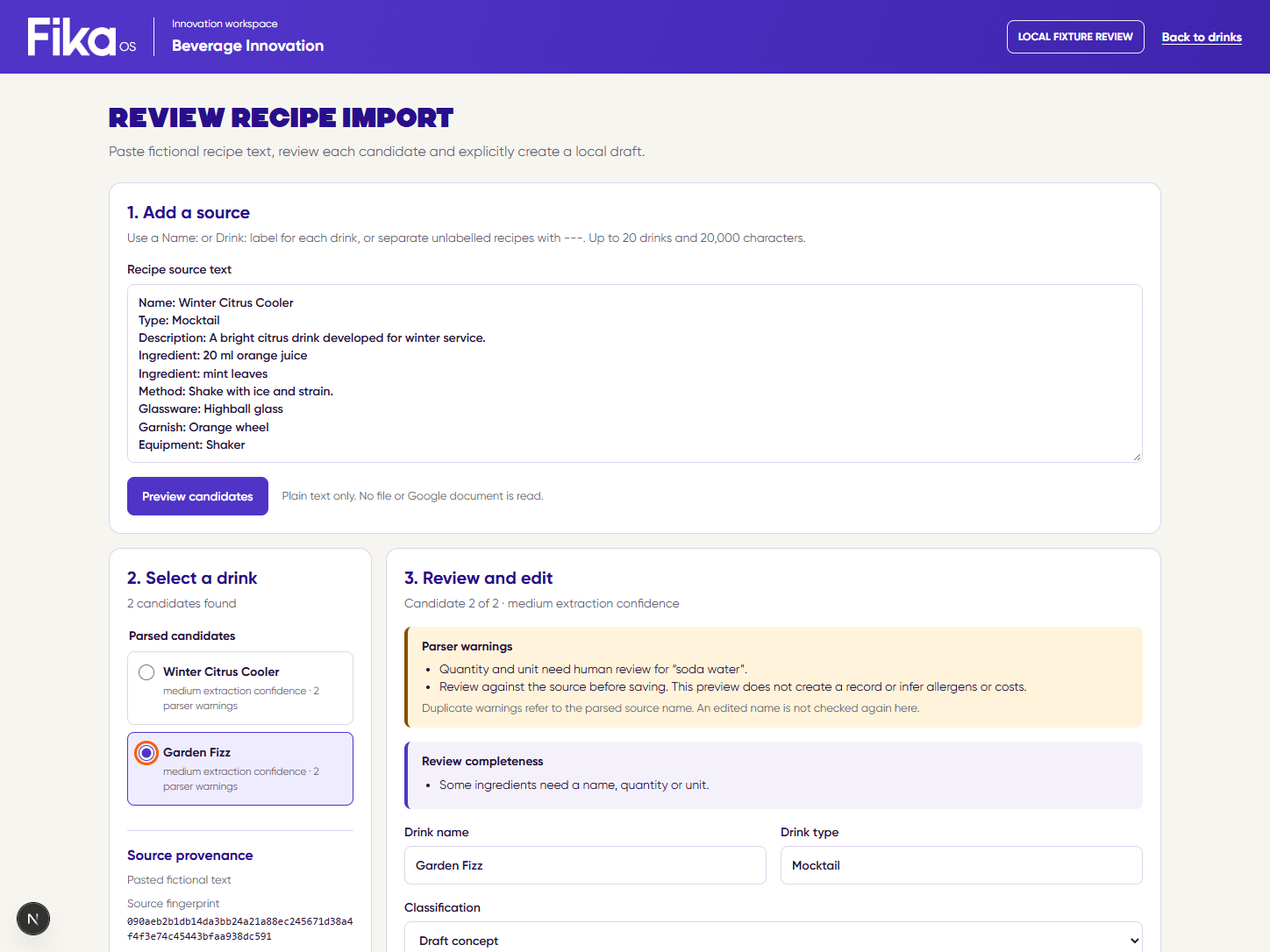
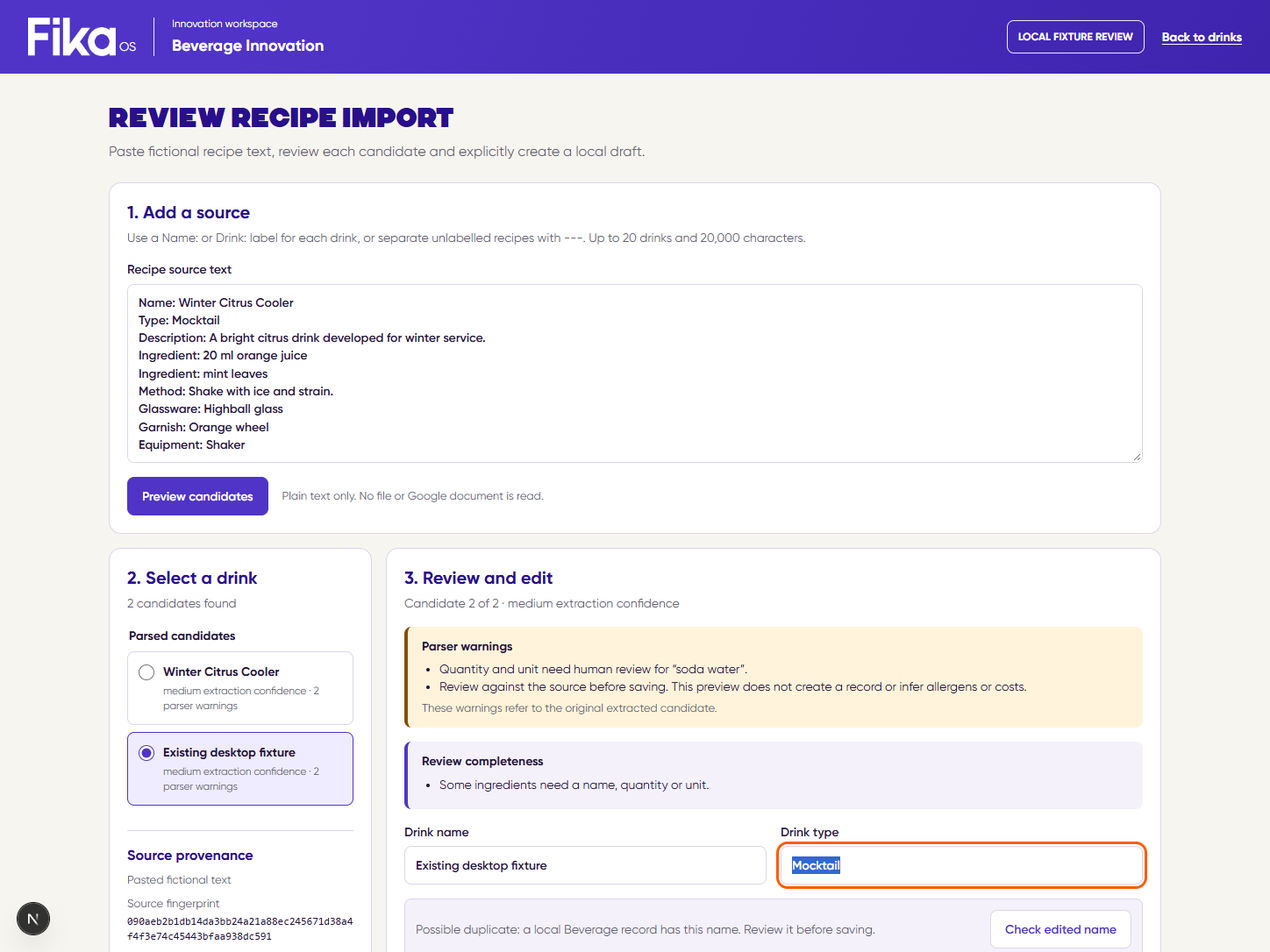
check reviewed beverage names locally

diff --git a/apps/beverage-innovation/app/imports/ImportReview.tsx b/apps/beverage-innovation/app/imports/ImportReview.tsx
@@ -2,7 +2,7 @@
 
 import { useRef, useState } from "react";
 import type { LocalImportPreview } from "../../lib/contracts";
-import { initialReview, prepareImport, reviewCompleteness, type PendingImport, type ReviewForm, type ReviewSession } from "./review-model";
+import { initialReview, normalizeReviewedName, prepareImport, reviewCompleteness, type PendingImport, type ReviewForm, type ReviewSession } from "./review-model";
 
 const example = "Name: Winter Citrus Cooler\nType: Mocktail\nDescription: A bright citrus drink developed for winter service.\nIngredient: 20 ml orange juice\nIngredient: mint leaves\nMethod: Shake with ice and strain.\nGlassware: Highball glass\nGarnish: Orange wheel\nEquipment: Shaker\n\nName: Garden Fizz\nType: Mocktail\nIngredient: 30 ml apple juice\nIngredient: soda water\nMethod: Stir and serve chilled.\nEquipment: Spoon";
 const messageOf = (body: unknown) => {
@@ -18,11 +18,19 @@ export default function ImportReview() {
   const [pending, setPending] = useState<PendingImport>();
   const [busy, setBusy] = useState(false);
   const [message, setMessage] = useState("");
+  const [nameChecks, setNameChecks] = useState<Record<number, { normalizedName: string; status: "checking" | "checked" | "error"; duplicate?: boolean }>>({});
   const busyRef = useRef(false);
+  const checkCounter = useRef(0);
+  const checkSequence = useRef<Record<number, number>>({});
+  const inFlightChecks = useRef<Record<number, { normalizedName: string; sequence: number }>>({});
   const locked = busy || Boolean(pending);
   const candidate = session?.preview.candidates[selected];
   const form = session?.forms[selected];
   const saved = Boolean(candidate && session?.saved.includes(candidate.index));
+  const normalizedName = form ? normalizeReviewedName(form.name) : "";
+  const nameChanged = Boolean(candidate && normalizedName !== normalizeReviewedName(candidate.recipe.name));
+  const nameCheck = candidate ? nameChecks[candidate.index] : undefined;
+  const nameCheckReady = !nameChanged || Boolean(nameCheck?.status === "checked" && nameCheck.normalizedName === normalizedName);
 
   function updateForm(patch: Partial<ReviewForm>) {
     if (locked || saved) return;
@@ -30,9 +38,38 @@ export default function ImportReview() {
     setConfirmed(false);
   }
 
+  function updateName(name: string) {
+    if (!candidate || locked || saved) return;
+    const index = candidate.index;
+    checkSequence.current[index] = ++checkCounter.current;
+    delete inFlightChecks.current[index];
+    setNameChecks(current => { const next = { ...current }; delete next[index]; return next; });
+    updateForm({ name });
+  }
+
+  async function checkEditedName() {
+    if (!candidate || !form || locked || saved || !nameChanged || !normalizedName) return;
+    const index = candidate.index;
+    if (inFlightChecks.current[index]?.normalizedName === normalizedName) return;
+    const sequence = ++checkCounter.current;
+    checkSequence.current[index] = sequence;
+    inFlightChecks.current[index] = { normalizedName, sequence };
+    setNameChecks(current => ({ ...current, [index]: { normalizedName, status: "checking" } }));
+    try {
+      const response = await fetch("/api/imports/name-check", { method: "POST", headers: { "content-type": "application/json" }, body: JSON.stringify({ name: form.name }) });
+      const body = await response.json();
+      if (!response.ok || body.normalizedName !== normalizedName || typeof body.duplicate !== "boolean") throw new Error("Name check unavailable");
+      if (checkSequence.current[index] === sequence) setNameChecks(current => ({ ...current, [index]: { normalizedName, status: "checked", duplicate: body.duplicate } }));
+    } catch {
+      if (checkSequence.current[index] === sequence) setNameChecks(current => ({ ...current, [index]: { normalizedName, status: "error" } }));
+    } finally {
+      if (inFlightChecks.current[index]?.sequence === sequence) delete inFlightChecks.current[index];
+    }
+  }
+
   async function previewSource() {
     if (busyRef.current || pending) return;
-    busyRef.current = true; setBusy(true); setMessage(""); setSession(undefined); setConfirmed(false);
+    busyRef.current = true; setBusy(true); setMessage(""); setSession(undefined); setNameChecks({}); checkSequence.current = {}; inFlightChecks.current = {}; setConfirmed(false);
     try {
       const response = await fetch("/api/imports/preview", { method: "POST", headers: { "content-type": "application/json" }, body: JSON.stringify({ text }) });
       const body = await response.json();
@@ -66,7 +103,8 @@ export default function ImportReview() {
   function createDraft() {
     if (!session || busyRef.current) return;
     if (pending) { void sendImport(pending); return; }
-    const result = prepareImport(session, selected, confirmed, "beverage-ui:" + crypto.randomUUID());
+    const verifiedName = nameCheck?.status === "checked" && typeof nameCheck.duplicate === "boolean" ? { normalizedName: nameCheck.normalizedName, duplicate: nameCheck.duplicate } : undefined;
+    const result = prepareImport(session, selected, confirmed, "beverage-ui:" + crypto.randomUUID(), verifiedName);
     if (!result.pending) { setMessage(result.error || "Review the selected candidate."); return; }
     void sendImport(result.pending);
   }
@@ -76,7 +114,7 @@ export default function ImportReview() {
     <div className="ir-workspace"><div className="ir-heading"><div><h1>Review recipe import</h1><p>Paste fictional recipe text, review each candidate and explicitly create a local draft.</p></div></div>
       {message && <div className="ir-message" role="status">{message}</div>}
       <section className="ir-card ir-source" aria-labelledby="source-title"><div><h2 id="source-title">1. Add a source</h2><p>Use a Name: or Drink: label for each drink, or separate unlabelled recipes with ---. Up to 20 drinks and 20,000 characters.</p></div>
-        <label>Recipe source text<textarea rows={9} maxLength={20000} value={text} disabled={locked} onChange={event => { setText(event.target.value); setSession(undefined); setConfirmed(false); setMessage(""); }} /></label>
+        <label>Recipe source text<textarea rows={9} maxLength={20000} value={text} disabled={locked} onChange={event => { setText(event.target.value); setSession(undefined); setNameChecks({}); checkSequence.current = {}; inFlightChecks.current = {}; setConfirmed(false); setMessage(""); }} /></label>
         <div className="ir-actions"><button className="ir-primary" disabled={locked || !text.trim()} onClick={() => void previewSource()}>{busy && !pending ? "Checking source…" : "Preview candidates"}</button><span>Plain text only. No file or Google document is read.</span></div>
       </section>
       {session && candidate && form && <div className="ir-review-layout">
@@ -84,10 +122,11 @@ export default function ImportReview() {
           <div className="ir-provenance"><h3>Source provenance</h3><p>{session.preview.sourceLabel}</p><p>Source fingerprint</p><code>{session.preview.sourceHash}</code><p>Selected candidate {candidate.index + 1} fingerprint</p><code>{candidate.candidateHash}</code><p>The source text is used for this review and is not stored with the draft.</p></div>
         </aside>
         <section className="ir-card ir-editor" aria-labelledby="review-title"><div className="ir-editor-head"><div><h2 id="review-title">3. Review and edit</h2><p>Candidate {selected + 1} of {session.preview.candidates.length} · {candidate.confidence} extraction confidence</p></div>{saved && <span className="ir-badge">Draft created</span>}</div>
-          <div className="ir-warning"><strong>Parser warnings</strong><ul>{candidate.warnings.map((warning, index) => <li key={index}>{warning}</li>)}</ul><p>Duplicate warnings refer to the parsed source name. An edited name is not checked again here.</p></div>
+          <div className="ir-warning"><strong>Parser warnings</strong><ul>{candidate.warnings.map((warning, index) => <li key={index}>{warning}</li>)}</ul><p>These warnings refer to the original extracted candidate.</p></div>
           <div className="ir-completeness"><strong>Review completeness</strong>{reviewCompleteness(form).length ? <ul>{reviewCompleteness(form).map(issue => <li key={issue}>{issue}</li>)}</ul> : <p>Core fields are filled. Confirm them against the source before saving.</p>}</div>
           <fieldset className="ir-fields" disabled={locked || saved}><legend className="ir-sr-only">Editable recipe fields</legend>
-            <div className="ir-two"><label>Drink name <input value={form.name} maxLength={160} onChange={event => updateForm({ name: event.target.value })}/></label><label>Drink type <input value={form.beverageType} maxLength={80} onChange={event => updateForm({ beverageType: event.target.value })}/></label></div>
+            <div className="ir-two"><label>Drink name <input value={form.name} maxLength={160} onChange={event => updateName(event.target.value)} onBlur={() => void checkEditedName()}/></label><label>Drink type <input value={form.beverageType} maxLength={80} onChange={event => updateForm({ beverageType: event.target.value })}/></label></div>
+            {nameChanged && <div className="ir-name-check" aria-live="polite"><p>{!normalizedName ? "Enter a drink name to check for a local duplicate." : nameCheck?.normalizedName !== normalizedName ? "Check this edited name before creating a draft." : nameCheck.status === "checking" ? "Checking the edited name…" : nameCheck.status === "error" ? "The name check is unavailable. Retry before creating a draft." : nameCheck.duplicate ? "Possible duplicate: a local Beverage record has this name. Review it before saving." : "No exact name match found in local Beverage records."}</p><button className="ir-secondary" type="button" disabled={!normalizedName || nameCheck?.status === "checking"} onClick={() => void checkEditedName()}>{nameCheck?.status === "error" ? "Retry name check" : "Check edited name"}</button></div>}
             <label>Classification<select value={form.classification} onChange={event => updateForm({ classification: event.target.value as ReviewForm["classification"] })}><option value="draft_concept">Draft concept</option><option value="classic_source">Classic source</option><option value="fika_original">FIKA original</option></select></label>
             <label>Description<textarea rows={3} maxLength={2000} value={form.description} onChange={event => updateForm({ description: event.target.value })}/></label>
             <div className="ir-section-head"><div><h3>Ingredients · per drink</h3><p>Leave an unknown amount or unit blank. Costs and allergens remain unconfirmed.</p></div><button className="ir-secondary" type="button" disabled={form.ingredients.length >= 100} onClick={() => updateForm({ ingredients: [...form.ingredients, { name: "", amount: "", unit: "" }] })}>Add ingredient</button></div>
@@ -100,7 +139,7 @@ export default function ImportReview() {
           </fieldset>
           {pending && <p className="ir-warning">The result is unknown. Retry the same request; the review is locked to prevent duplicate drafts.</p>}
           {message && <p className="ir-inline-message" aria-hidden="true">{message}</p>}
-          <div className="ir-actions"><button className="ir-primary" disabled={busy || saved || (!pending && !confirmed)} onClick={createDraft}>{busy && pending ? "Creating draft…" : pending ? "Retry same request" : saved ? "Draft created" : "Create local draft"}</button><span>No notification or operational publication will be sent.</span></div>
+          <div className="ir-actions"><button className="ir-primary" disabled={busy || saved || (!pending && (!confirmed || !nameCheckReady))} onClick={createDraft}>{busy && pending ? "Creating draft…" : pending ? "Retry same request" : saved ? "Draft created" : "Create local draft"}</button><span>No notification or operational publication will be sent.</span></div>
         </section>
       </div>}
     </div>

diff --git a/apps/beverage-innovation/tests/import-review.test.ts b/apps/beverage-innovation/tests/import-review.test.ts
@@ -18,13 +18,15 @@ test("review payload binds the selected fingerprint, preserves all edited fields
   const session = { text, preview, forms: preview.candidates.map(initialReview), saved: [] as number[] };
   assert.match(prepareImport(session, 1, false, "fixture:key").error!, /Confirm/);
   session.forms[1] = { ...form, name: "Corrected fixture", beverageType: "Cold drink", description: "Reviewed description", ingredients: [{ name: "Mint sprig", amount: "1", unit: "each" }], method: "Build over ice.", glassware: "Tall glass", garnish: "Mint", equipmentText: "Spoon\nJigger", classification: "classic_source" };
-  const pending = prepareImport(session, 1, true, "fixture:key").pending!;
+  assert.match(prepareImport(session, 1, true, "fixture:key").error!, /Check the edited name/);
+  const nameCheck = { normalizedName: "corrected fixture", duplicate: true };
+  const pending = prepareImport(session, 1, true, "fixture:key", nameCheck).pending!;
   assert.deepEqual(JSON.parse(pending.body), { text, sourceHash: preview.sourceHash, candidateIndex: 1, candidateHash: preview.candidates[1].candidateHash, classification: "classic_source", reviewed: true, reviewedCandidate: { name: "Corrected fixture", beverageType: "Cold drink", description: "Reviewed description", ingredients: [{ name: "Mint sprig", amount: 1, unit: "each" }], method: "Build over ice.", glassware: "Tall glass", garnish: "Mint", equipment: ["Spoon", "Jigger"] } });
   session.forms[1].ingredients[0].amount = "1.2345";
-  assert.match(prepareImport(session, 1, true, "fixture:key").error!, /three decimal/);
+  assert.match(prepareImport(session, 1, true, "fixture:key", nameCheck).error!, /three decimal/);
   session.forms[1].ingredients[0].amount = "1";
   session.forms[1].ingredients[0].unit = "";
-  assert.match(prepareImport(session, 1, true, "fixture:key").error!, /unit/i);
+  assert.match(prepareImport(session, 1, true, "fixture:key", nameCheck).error!, /unit/i);
   session.saved.push(1);
   assert.match(prepareImport(session, 1, true, "fixture:key").error!, /unsaved/);
 });
@@ -37,6 +39,7 @@ test("component reviews multiple candidates and retries an uncertain submission 
     const url = String(input);
     calls.push({ url, body: String(init?.body), key: (init?.headers as Record<string, string>)?.["idempotency-key"] });
     if (url.endsWith("/preview")) return Response.json(preview);
+    if (url.endsWith("/name-check")) return Response.json({ normalizedName: "corrected fixture", duplicate: true });
     commits++;
     if (commits === 1) throw new TypeError("network response lost");
     if (commits === 2) return Response.json({ error: { message: "Access unavailable" } }, { status: 403 });
@@ -56,6 +59,8 @@ test("component reviews multiple candidates and retries an uncertain submission 
   await act(async () => { rendered.root.findAllByProps({ name: "candidate" })[1].props.onChange(); });
   const change = async (label: string, type: "input" | "textarea" | "select", value: string) => { await act(async () => { findLabel(rendered.root, label).findByType(type).props.onChange({ target: { value } }); }); };
   await change("Drink name", "input", "Corrected fixture");
+  await act(async () => { findLabel(rendered.root, "Drink name").findByType("input").props.onBlur(); });
+  assert.ok(rendered.root.findAllByType("p").some(item => item.children.some(child => typeof child === "string" && child.includes("Possible duplicate"))));
   await change("Drink type", "input", "Cold drink");
   await change("Description", "textarea", "Reviewed description");
   await change("Ingredient 1", "input", "Mint sprig");
@@ -89,4 +94,32 @@ test("component reviews multiple candidates and retries an uncertain submission 
   assert.equal(findLabel(rendered.root, "Drink name").findByType("input").props.value, "First edited");
   await act(async () => { findLabel(rendered.root, "Recipe source text").findByType("textarea").props.onChange({ target: { value: text + "\nChanged source" } }); });
   assert.equal(rendered.root.findAllByProps({ name: "candidate" }).length, 0, "changing source requires a fresh preview");
+});
+
+test("name checks discard stale responses and fail closed when the lookup is unavailable", async t => {
+  const originalFetch = globalThis.fetch;
+  let finishFirst!: (response: Response) => void;
+  globalThis.fetch = async (input, init) => {
+    if (String(input).endsWith("/preview")) return Response.json(preview);
+    const name = JSON.parse(String(init?.body)).name;
+    if (name === "First edit") return new Promise<Response>(resolve => { finishFirst = resolve; });
+    if (name === "Second edit") return Response.json({ normalizedName: "second edit", duplicate: false });
+    return Response.json({ error: { message: "Unavailable" } }, { status: 503 });
+  };
+  t.after(() => { globalThis.fetch = originalFetch; });
+  let rendered!: ReactTestRenderer;
+  await act(async () => { rendered = create(createElement(ImportReview)); });
+  t.after(() => { act(() => rendered.unmount()); });
+  await act(async () => { findLabel(rendered.root, "Recipe source text").findByType("textarea").props.onChange({ target: { value: text } }); });
+  await act(async () => { findButton(rendered.root, "Preview candidates").props.onClick(); });
+  const editName = async (name: string) => { await act(async () => { findLabel(rendered.root, "Drink name").findByType("input").props.onChange({ target: { value: name } }); }); };
+  const blurName = async () => { await act(async () => { findLabel(rendered.root, "Drink name").findByType("input").props.onBlur(); }); };
+  await editName("First edit"); await blurName();
+  await editName("Second edit"); await blurName();
+  await act(async () => { finishFirst(Response.json({ normalizedName: "first edit", duplicate: true })); });
+  assert.ok(rendered.root.findAllByType("p").some(item => item.children.includes("No exact name match found in local Beverage records.")));
+  await editName("Third edit"); await blurName();
+  assert.ok(rendered.root.findAllByType("p").some(item => item.children.includes("The name check is unavailable. Retry before creating a draft.")));
+  await act(async () => { rendered.root.findByProps({ type: "checkbox" }).props.onChange({ target: { checked: true } }); });
+  assert.equal(findButton(rendered.root, "Create local draft").props.disabled, true);
 });

diff --git a/apps/beverage-innovation/tests/emulator/persistence.test.ts b/apps/beverage-innovation/tests/emulator/persistence.test.ts
@@ -15,6 +15,7 @@ const { previewPastedRecipes, requirePastedRecipeCandidate } = await import("../
 const { beverageDb } = await import("../../lib/firestore-admin");
 const { POST: previewImport } = await import("../../app/api/imports/preview/route");
 const { POST: commitImport } = await import("../../app/api/imports/commit/route");
+const { POST: checkImportName } = await import("../../app/api/imports/name-check/route");
 const { initialReview, prepareImport } = await import("../../app/imports/review-model");
 const actor: BeverageActor = { authmodIdentityId: "fixture:beverage-test-operator", identityKind: "person", displayName: "Fictional Beverage local test actor", action: "Contribute", scopeOplocIds: ["fixture-oploc:london"], synthetic: true };
 
@@ -88,6 +89,14 @@ test("actual import routes preview without writes and atomically commit the edit
   assert.ok(result.candidates[0].warnings.some(warning => warning.includes("local Beverage records")));
   assert.ok(result.candidates[1].warnings.some(warning => warning.includes("Quantity and unit")));
   assert.deepEqual([await count(beverageCollections.beverages), await count(beverageCollections.audit)], before);
+  const existingName = await checkImportName(request("name-check", { name: duplicateName.toUpperCase() }));
+  assert.equal(existingName.status, 200);
+  assert.equal((await existingName.json()).duplicate, true);
+  const editedName = await checkImportName(request("name-check", { name: "Reviewed and corrected fixture cooler" }));
+  assert.equal(editedName.status, 200);
+  const nameCheck = await editedName.json();
+  assert.deepEqual(nameCheck, { normalizedName: "reviewed and corrected fixture cooler", duplicate: false });
+  assert.deepEqual([await count(beverageCollections.beverages), await count(beverageCollections.audit)], before);
 
   const candidate = result.candidates[1];
   const reviewedCandidate = {
@@ -99,7 +108,7 @@ test("actual import routes preview without writes and atomically commit the edit
   const key = `emulator-reviewed-import:${randomUUID()}`;
   const forms = result.candidates.map(initialReview);
   forms[1] = { ...forms[1], ...reviewedCandidate, ingredients: [{ name: "Mint sprig", amount: "1", unit: "each" }, { name: "Soda water", amount: "", unit: "" }], equipmentText: "Jigger\nSpoon" };
-  const prepared = prepareImport({ text, preview: result, forms, saved: [] }, 1, true, key);
+  const prepared = prepareImport({ text, preview: result, forms, saved: [] }, 1, true, key, nameCheck);
   assert.ok(prepared.pending);
   const body = JSON.parse(prepared.pending.body);
   const [firstResponse, replayResponse] = await Promise.all([

diff --git a/apps/beverage-innovation/app/imports/review-model.ts b/apps/beverage-innovation/app/imports/review-model.ts
@@ -15,6 +15,8 @@ export type ReviewSession = {
 };
 
 export type PendingImport = { key: string; body: string; candidateIndex: number };
+export type ReviewedNameCheck = { normalizedName: string; duplicate: boolean };
+export const normalizeReviewedName = (name: string) => name.trim().toLocaleLowerCase("en-GB");
 
 export function initialReview(candidate: LocalImportCandidate): ReviewForm {
   const { equipment, ingredients, ...fields } = candidate.recipe;
@@ -31,11 +33,13 @@ export function reviewCompleteness(form: ReviewForm): string[] {
   return issues;
 }
 
-export function prepareImport(session: ReviewSession, selection: number, confirmed: boolean, key: string): { pending?: PendingImport; error?: string } {
+export function prepareImport(session: ReviewSession, selection: number, confirmed: boolean, key: string, nameCheck?: ReviewedNameCheck): { pending?: PendingImport; error?: string } {
   const candidate = session.preview.candidates[selection];
   const form = session.forms[selection];
   if (!candidate || !form || session.saved.includes(candidate.index)) return { error: "Select an unsaved candidate to review." };
   if (!confirmed) return { error: "Confirm that you have reviewed the selected recipe against its source." };
+  const reviewedName = normalizeReviewedName(form.name);
+  if (reviewedName !== normalizeReviewedName(candidate.recipe.name) && (!nameCheck || nameCheck.normalizedName !== reviewedName)) return { error: "Check the edited name for a local duplicate before creating a draft." };
   if (form.ingredients.some(line => line.amount.trim() && !/^\d+(?:\.\d{1,3})?$/.test(line.amount.trim()))) return { error: "Use a positive quantity with up to three decimal places, or leave it blank." };
   const result = reviewedImportRecipeSchema.safeParse({
     name: form.name, beverageType: form.beverageType, description: form.description,

diff --git a/apps/beverage-innovation/tests/import-preview.test.ts b/apps/beverage-innovation/tests/import-preview.test.ts
@@ -2,6 +2,7 @@ import test from "node:test";
 import assert from "node:assert/strict";
 import { POST as preview } from "../app/api/imports/preview/route";
 import { POST as commit } from "../app/api/imports/commit/route";
+import { POST as nameCheck } from "../app/api/imports/name-check/route";
 import { MAX_PASTED_RECIPE_CANDIDATES } from "../lib/contracts";
 import { previewPastedRecipes } from "../lib/import-preview";
 
@@ -81,12 +82,16 @@ test("import routes retain local fixture gates and reject unreviewed, altered an
   }
   assert.ok((await preview(request({ text }, "preview"))).status >= 400);
   assert.ok((await commit(request({ text }))).status >= 400);
+  assert.ok((await nameCheck(request({ name: "Fixture" }, "name-check"))).status >= 400);
   process.env.FIKA_RUNTIME_MODE = "local";
   assert.equal((await preview(request({ text }, "preview", "example.test"))).status, 403);
+  assert.equal((await nameCheck(request({ name: "Fixture" }, "name-check", "example.test"))).status, 403);
   process.env.FIKA_BEVERAGE_LOCAL_AUTH_ACTIONS = "View";
   assert.equal((await commit(request({ text }))).status, 403);
+  assert.equal((await nameCheck(request({ name: "Fixture" }, "name-check"))).status, 403);
   process.env.FIKA_BEVERAGE_LOCAL_AUTH_ACTIONS = "Contribute";
   assert.equal((await preview(request({ text: 12 }, "preview"))).status, 400);
+  assert.equal((await nameCheck(request({ name: "" }, "name-check"))).status, 400);
 
   const result = previewPastedRecipes(text);
   const candidate = result.candidates[0];

diff --git a/apps/beverage-innovation/app/imports/import-review.css b/apps/beverage-innovation/app/imports/import-review.css
@@ -43,6 +43,7 @@
 .ir-warning,.ir-completeness{margin-top:16px;padding:12px 16px;border-radius:var(--radius-sm);background:var(--fika-status-warning-surface);border-left:4px solid var(--fika-status-warning)}
 .ir-completeness{background:var(--fika-surface-subtle);border-color:var(--fika-action-primary)}
 .ir-warning ul,.ir-completeness ul{padding-left:20px;margin:6px 0}.ir-warning p,.ir-completeness p{font-size:13px}
+.ir-name-check{display:flex;align-items:center;gap:12px;flex-wrap:wrap;padding:12px;border:1px solid var(--fika-border-default);border-radius:var(--radius-sm);background:var(--fika-surface-subtle)}.ir-name-check p{flex:1;min-width:180px;margin:0}
 .ir-fields{display:grid;gap:16px}.ir-two{display:grid;grid-template-columns:repeat(2,minmax(0,1fr));gap:16px}
 .ir-ingredient{display:grid;grid-template-columns:minmax(0,2fr) minmax(0,.8fr) minmax(0,.8fr) auto;gap:8px;align-items:end}
 .ir-confirm{display:flex;gap:10px;align-items:flex-start;min-height:44px}.ir-editor>.ir-actions{margin-top:20px}

diff --git a/apps/beverage-innovation/app/api/imports/name-check/route.ts b/apps/beverage-innovation/app/api/imports/name-check/route.ts
@@ -1,0 +1,21 @@
+import { NextResponse } from "next/server";
+import { z } from "zod";
+import { normaliseImportName } from "@/lib/import-preview";
+import { findBeveragesByName } from "@/lib/repository";
+import { beverageError, requireLocalBeverageActor } from "@/lib/runtime";
+
+const requestSchema = z.object({ name: z.string().trim().min(1).max(160) }).strict();
+export const runtime = "nodejs";
+
+export async function POST(request: Request) {
+  try {
+    requireLocalBeverageActor(request, "Contribute");
+    const { name } = requestSchema.parse(await request.json());
+    const normalizedName = normaliseImportName(name);
+    const duplicate = (await findBeveragesByName(normalizedName, 1)).length > 0;
+    return NextResponse.json({ normalizedName, duplicate }, { headers: { "Cache-Control": "no-store" } });
+  } catch (error) {
+    const result = beverageError(error);
+    return NextResponse.json(result.body, { status: result.status });
+  }
+}

diff --git a/apps/beverage-innovation/DEVELOPMENT.md b/apps/beverage-innovation/DEVELOPMENT.md
@@ -29,9 +29,10 @@ The owner authorizes merging eligible Beverage PRs and deploying a dedicated, no
 
 ## Stage B recipe import
 
-Start with local extraction from pasted plain text and human review. A source can contain up to 20 drinks and 20,000 characters. Use a new `Name:` or `Drink:` label for each recipe, or put `---` between blocks with unlabelled titles. The local page can select and edit each candidate, then explicitly create one reviewed draft at a time. Parser duplicate warnings apply to the original extracted name; edited names are not rechecked by this screen. PPTX, PDF, DOCX, Google Slides and Google Docs extraction are pending separate adapters and authorisation where required.
+Start with local extraction from pasted plain text and human review. A source can contain up to 20 drinks and 20,000 characters. Use a new `Name:` or `Drink:` label for each recipe, or put `---` between blocks with unlabelled titles. The local page can select and edit each candidate, then explicitly create one reviewed draft at a time. Parser duplicate warnings apply to the original extracted name; an edited name is checked separately against local records before confirmation. PPTX, PDF, DOCX, Google Slides and Google Docs extraction are pending separate adapters and authorisation where required.
 
 - `POST /api/imports/preview` accepts `{text}` and returns the source fingerprint and ordered candidates with a zero-based `index`, `candidateHash`, `recipe`, `confidence` and `warnings`. Confidence describes extraction completeness and every candidate requires review. Preview performs at most one indexed, limit-one read per distinct candidate name in the local emulator and makes zero writes.
+- `POST /api/imports/name-check` requires local Contribute permission and performs one indexed, limit-one lookup for an edited name in the local emulator. It returns a warning signal only and makes no writes.
 - `POST /api/imports/commit` requires `text`, `sourceHash`, `candidateIndex`, `candidateHash`, an explicit `classification`, `reviewed: true`, and the `reviewedCandidate` recipe fields. The server reparses the source and validates the selection before writing. Submit the same `Idempotency-Key` when retrying the same review. Changed review content with a reused key conflicts.
 - If a local submission returns an unknown result, the page freezes its selected review and retries the identical request and key. Reloading loses that in-memory retry state; check local records before attempting a fresh review.
 - A successful commit atomically creates a local draft and one audit event with the source fingerprint and candidate evidence. The source text stays out of persistent storage. Reviewers may correct the recipe fields and supply explicit ingredient amounts and units. Missing quantities, costs and allergen declarations remain unconfirmed and cost, price, dietary and allergen claims in the source are omitted. Local AUTHMOD fixture and demo emulator rules apply to both endpoints.

diff --git a/apps/beverage-innovation/visual-evidence/import-review.md b/apps/beverage-innovation/visual-evidence/import-review.md
@@ -1,5 +1,5 @@
 # Local import review — 7 November 2026
 
-`import-review-desktop.png` (1448 × 1086) and `import-review-tablet.png` (1024 × 768) show the local development page after selecting the second fictional candidate with the keyboard. The lower-left Next.js indicator is a development-only control. These are not staging captures or owner visual approval.
+`import-review-desktop.png` (1448 × 1086) and `import-review-tablet.png` (1024 × 768) show the local development page after selecting the second fictional candidate and checking an edited name that matches a local fixture. The lower-left Next.js indicator is a development-only control. These are not staging captures or owner visual approval.
 
-The local emulator journey used keyboard navigation to preview two candidates, select the second, edit its name and equipment, confirm review and create a draft. It checked focus visibility, distinct candidate and ingredient labels, viewport overflow and the absence of requests outside localhost. The source text itself is not stored; the record retains source and candidate fingerprints.
+The local emulator journey used keyboard navigation to preview two candidates, select the second, see the edited-name duplicate warning, check a different name, edit equipment, confirm review and create a draft. It checked focus visibility, distinct candidate and ingredient labels, viewport overflow and the absence of requests outside localhost. The source text itself is not stored; the record retains source and candidate fingerprints.

diff --git a/.changes/beverage-innovation/2026-11-07-import-review-ui.md b/.changes/beverage-innovation/2026-11-07-import-review-ui.md
@@ -1,6 +1,6 @@
 # 2026-11-07 — Beverage recipe import review
 
-Review multiple pasted-text candidates in the local Beverage app, edit each extracted recipe field including equipment, see parser and completeness warnings with source fingerprints, and explicitly confirm one local draft at a time. Freeze an uncertain submission and retry its identical fingerprint-bound request and idempotency key. Existing local emulator and fixture authorization gates remain unchanged; no external extraction, staging persistence or operational effects are enabled.
+Review multiple pasted-text candidates in the local Beverage app, edit each extracted recipe field including equipment, see parser and completeness warnings with source fingerprints, and explicitly confirm one local draft at a time. Recheck edited names through a bounded local lookup, and freeze an uncertain submission for retry with its identical fingerprint-bound request and idempotency key. Existing local emulator and fixture authorization gates remain unchanged; no external extraction, staging persistence or operational effects are enabled.
 
 Style Guide compliance: PASS — the review uses shared FIKA semantic tokens, Gilroy working text, labelled controls, keyboard focus, readable state text and responsive layouts.
 
